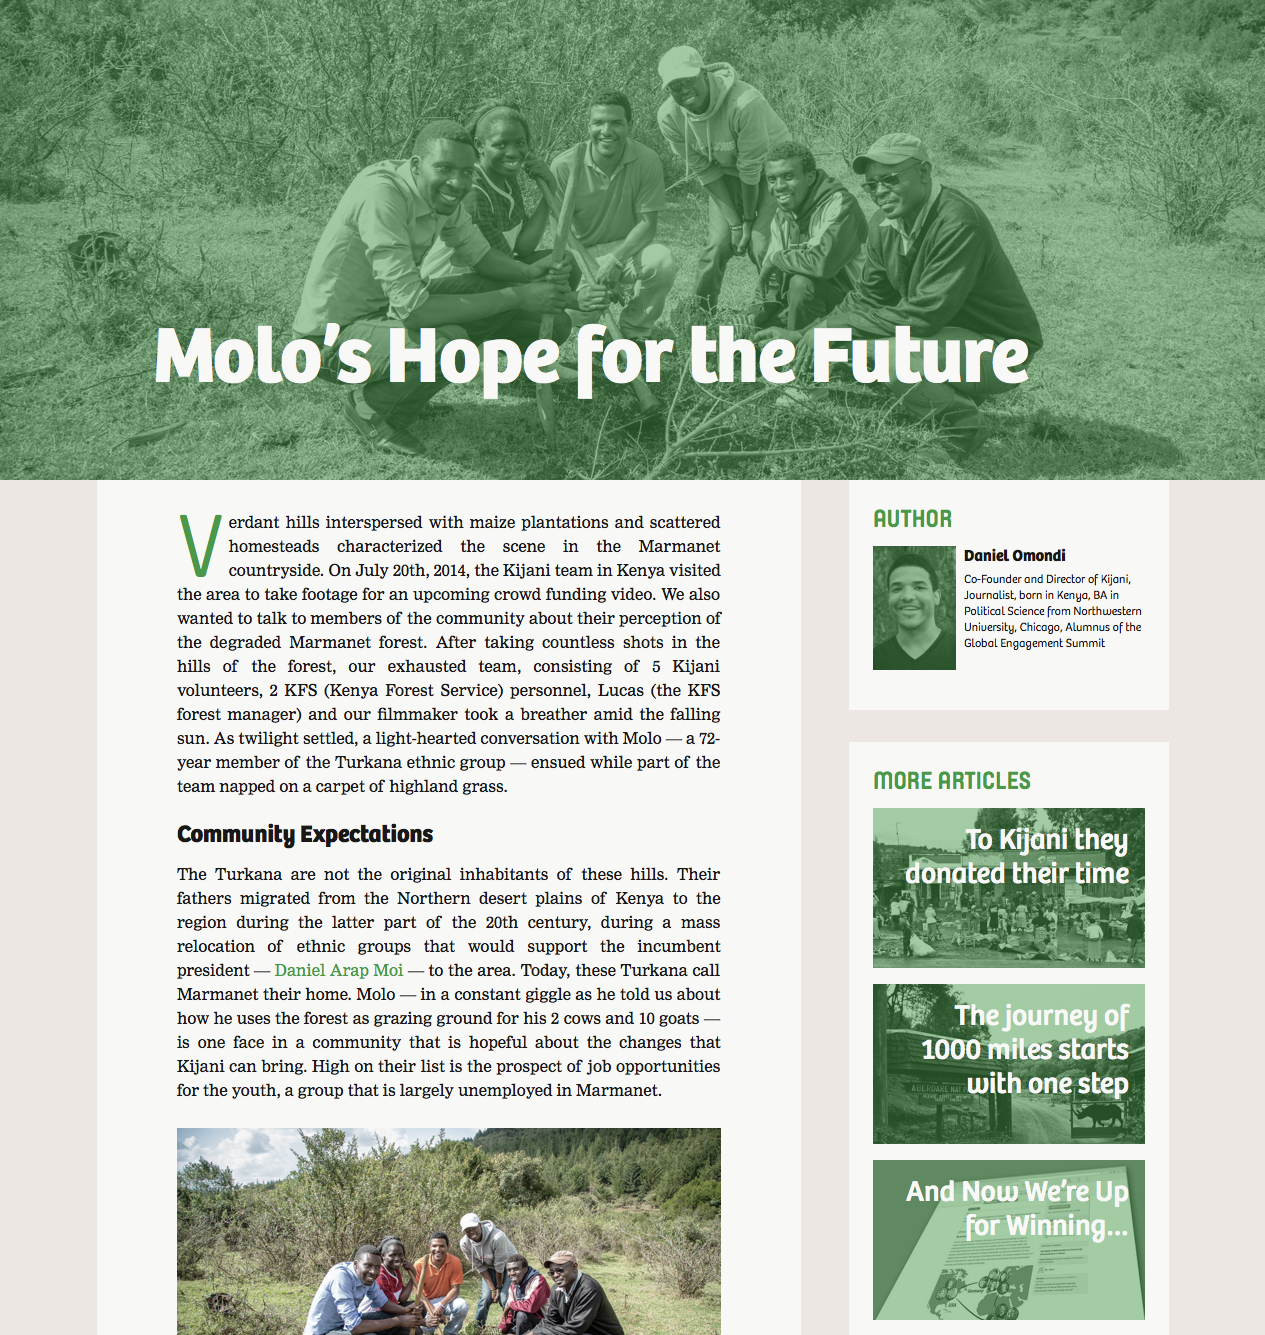
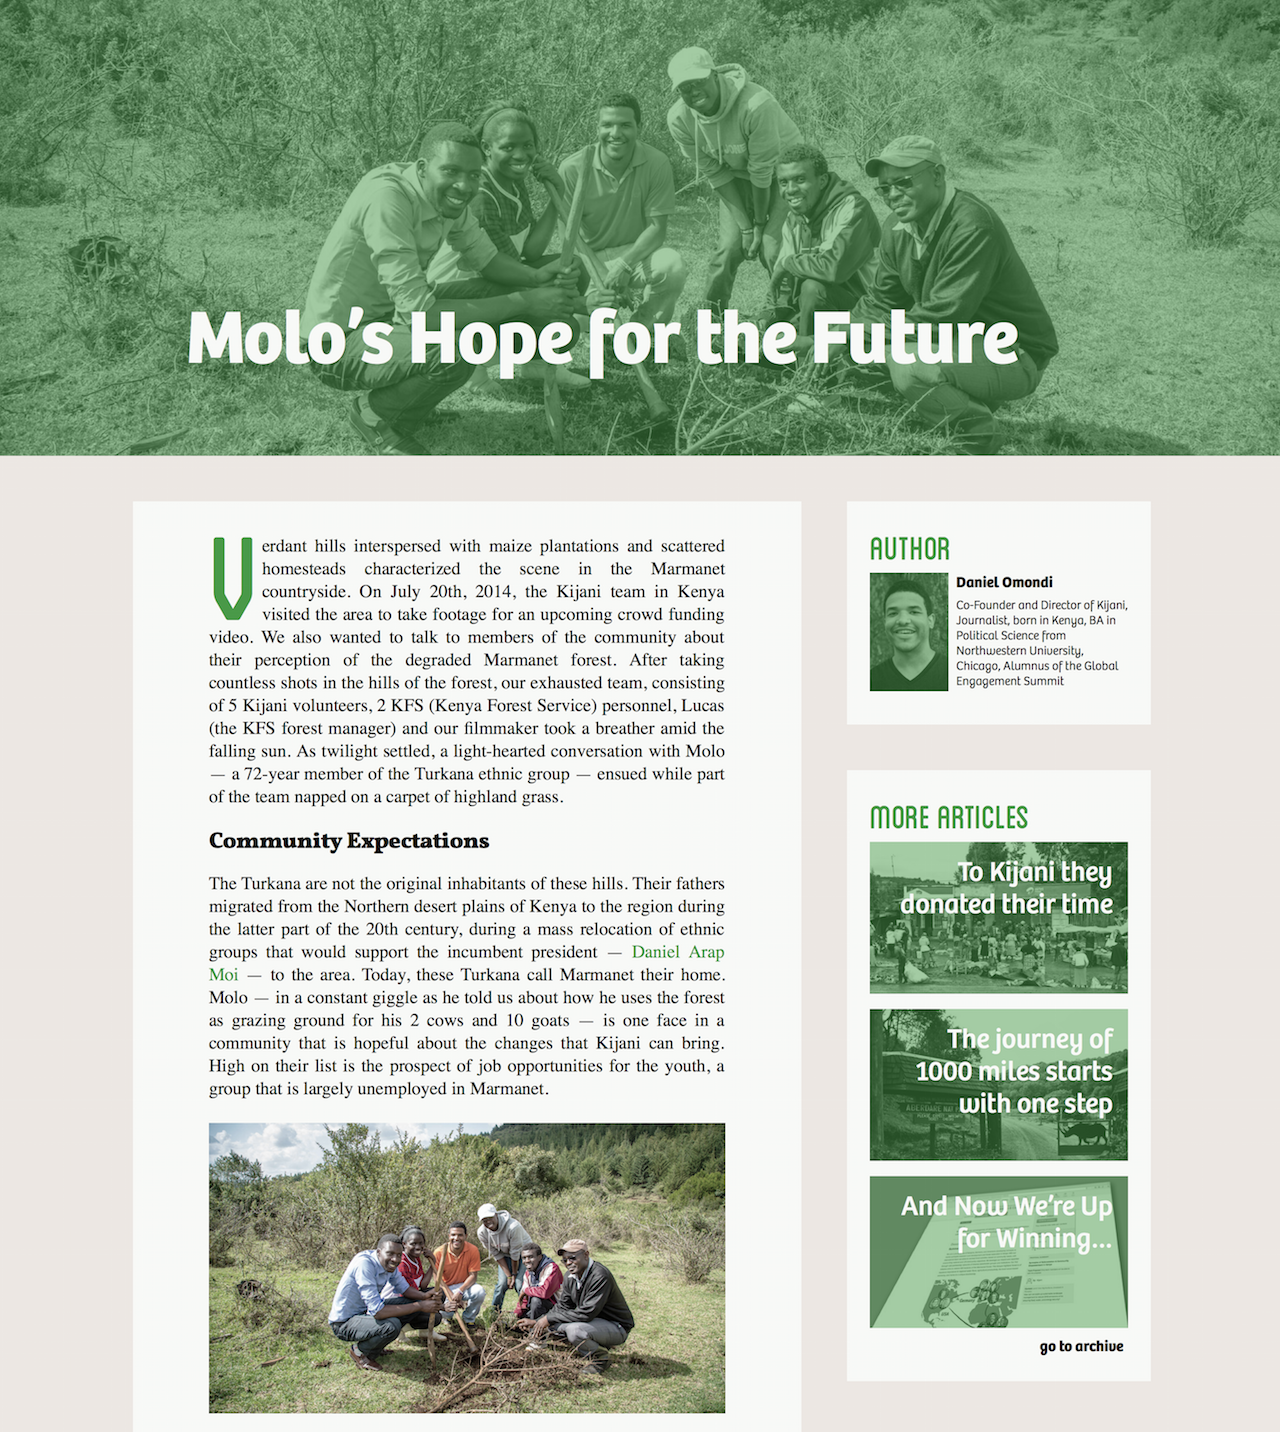
switched to free fonts Blanch and Vollkorn

diff --git a/css/styles.scss b/css/styles.scss
@@ -71,6 +71,7 @@ article {
     background-color: $white;
     padding: 1*$em 5*$em 3*$em 5*$em;
     box-sizing: border-box;
+    margin: 3*$em 0;
 	h1 {
         margin-bottom: 1.5*$em;
         font-family: "Bree";
@@ -80,9 +81,10 @@ article {
         display: none;
 	}
 	p {
-        font-family: "Georgia";
-		font-family: "Nimrod MT Std";
-        font-weight: 400;
+//		font-family: "Nimrod MT Std";
+        font-family: "Volkorn";
+        font-size: 1.2*$em;
+        font-weight: 300;
 		text-align: justify;
         margin-bottom: 1.5*$em;
 		a {
@@ -93,16 +95,18 @@ article {
 		&:first-child:first-letter { 
 			float: left; 
 			color: $green; 
-			font-family: Yummo; 
+			font-family: "Blanch"; 
 			font-weight: 500;
 			text-transform: capitalize;
-			font-size: 5.5*$em; 
+			font-size: 11*$em; 
 			line-height: 3*$em; 
-			padding: 0.5*$em 0.3*$em 0 0; 
+			padding: 0.55*$em 0.05*$em 1.5*$em 0; 
 		}
     }
     h2 {
-        font-family: "Bree";
+//        font-family: "Bree";
+        font-family: "Vollkorn";
+        letter-spacing: -0.02em;
         font-size: 1.5*$em;
         font-weight: 600;
         line-height: 1.5*$em;
@@ -131,7 +135,6 @@ aside {
     width: 100%;
     max-width: 20em;
     float: right;
-    background-color: $white;
     box-sizing: border-box;
     h3 {
         font-family: "Bree";
@@ -143,16 +146,16 @@ aside {
     p {
         font-family: "Bree"; 
         font-weight: 300;
-        font-size: 0.75*$em;
+        font-size: 0.8*$em;
         line-height: 1*$em;
         margin-bottom: 1*$em;
         text-align: left;
     }
     section {
-        padding: 0 1.5*$em;
-        padding-bottom: 1.5*$em;
-        margin-bottom: 1.5*$em;
-        border-bottom: 2*$em solid $dust5;
+        padding: 1.2*$em 1.5*$em;
+//        margin-bottom: 2*$em;
+        margin: 3*$em 0;
+        background-color: $white;
     }
     .author {
         figure {
@@ -171,11 +174,18 @@ aside {
         display: none;
     }
     .articles {
-        div {
+        &>a {
+            display: block;
             height: 10em;
             overflow: hidden;
             margin: 1*$em 0;
             position: relative;
+            &:hover {
+                .green-overlay:after {
+                    opacity: 0.93;
+                    background: $green3;
+                }
+            }
             h3 {
                 display: inline-block;
                 position: absolute;
@@ -191,6 +201,10 @@ aside {
                 line-height: 1.2;
                 text-align: right;
             }
+        }
+        h3 {
+            text-align: right;
+            margin: -0.2*$em 0.3*$em 0.5*$em 0;
         }
     }
 }

diff --git a/index.html b/index.html
@@ -34,7 +34,7 @@
 		</nav>
 		<section id="hero">
             <picture class="green-overlay">
-                <source media="(min-width: 1400px)" srcset="img.jpg">
+                <source media="(min-width: 1400px)" srcset="img/img.jpg">
                 <img src="img/img.jpg" class="grayscale" alt="hero image">
             </picture>
 		    <div class="heading">
@@ -85,24 +85,25 @@
             </section>
             <section class="articles">
                 <h2 class="title">More Articles</h2>    
-                <div>
+                <a href="">
                     <figure class="green-overlay">
                         <img class="grayscale" src="img/article1.jpg" alt="">
                     </figure>
                     <h3>To Kijani they donated their time</h3>
-                </div>
-                <div>
+                </a>
+                <a href="">
                     <figure class="green-overlay">
                         <img class="grayscale" src="img/article2.jpg" alt="">
                     </figure>
                     <h3>The journey of 1000 miles starts with one step</h3>
-                </div>
-                <div>
+                </a>
+                <a href="">
                     <figure class="green-overlay">
                         <img class="grayscale" src="img/article3.jpg" alt="">
                     </figure>
                     <h3>And Now We’re Up for Winning…</h3>
-                </div>
+                </a>
+                <h3><a href="">go to archive</a></h3>
             </section>
         </aside>
 	</main>

diff --git a/css/_general.scss b/css/_general.scss
@@ -2,36 +2,47 @@
     margin: 0 auto;
 }
 
+a {
+    color: inherit;
+    text-decoration: none;
+    &:hover, &:focus {
+        text-decoration: underline;
+    }
+}
+
 picture, figure {
     position: relative;
     width: 100%;
     margin: 0;
     img {
     	width: 100%;
+        transition: all 1s;
     }
     &.green-overlay:after {
         content: "";
-        background: rgba($green,0.5);
+        background: $green;
+        opacity: 0.5;
         position: absolute;
         width: 100%; height: 100%;
         top: 0; left: 0;
         z-index: 1;
+        transition: all 1s;
     }
 }
 
 .grayscale {
-    filter: grayscale(100%);
-    -webkit-filter: grayscale(100%);
+    filter: grayscale(1);
+    -webkit-filter: grayscale(1);
 }
 
 .title {
 	color: $green;
-	font-family: "Yummo";
+	font-family: "Blanch";
 	font-weight: 700;
-    font-size: 1.5*$em;
-    line-height: 1.5*$em;
+    font-size: 3*$em;
+    line-height: 2*$em;
 	text-transform: uppercase;
-    margin: 1.6*$em 0 0 0;
+    margin: 0.7*$em 0 -0.2*$em 0;
 }
 
 .clearfix {

diff --git a/README.md b/README.md
@@ -15,7 +15,7 @@ This repository only includes Sass files, please compile with the latest Sass. T
 
 The code is only optimized for Webkit Browsers, i.e. Chrome and Safari. Since this is not for actual distribution, let's keep it like that for simplicity sake. 
 
-This does not include font files. To work properly you need to install the Fonts Bree, Nimrod und Yummo. Please contact me, if you need the fonts I can't distribute them publicly.
+This does not include font files. To work properly you need to install the Fonts [Bree](http://www.type-together.com/Bree), [Vollkorn](http://vollkorn-typeface.com/) and [Blanch](http://www.atipus.com/design-identity-blanch-font/). Please contact me, if you need the fonts I can't distribute them publicly.
 
 ## Todos
 - [x] ~~Implement Basic Article Style~~
@@ -23,7 +23,7 @@ This does not include font files. To work properly you need to install the Fonts
 - [x] ~~Restructure Folders~~
 - [x] ~~Finish Author Section~~
 - [x] ~~Finish More Articles Section~~
-- [ ] Add Image Captions
+- [ ] Add Image Captionss
 - [ ] Add Subscribe Section
 - [ ] Add Share Section
 - [ ] Add Navigation
